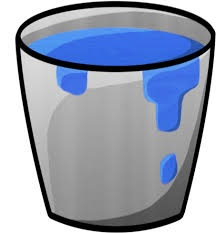
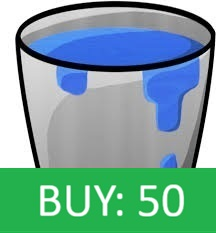
added budgetBar texts

Changed region(s): [[0.0, 0.691, 1.0, 1.0]]

diff --git a/UI/BudgetBar.cpp b/UI/BudgetBar.cpp
@@ -44,15 +44,45 @@ WaterIcon::WaterIcon(Game* r_pGame, point r_point, int r_width, int r_height, st
 	}
 }
 
-
+//omar
 void WaterIcon::draw() const
 {
-	BudgetbarIcon::draw(); // Draw the button
-	for (int i = 0; i < count; i++) { //loop to draw grass
+	BudgetbarIcon::draw(); //draw jpg
+
+	window* pWind = pGame->getWind();
+
+	pWind->SetPen(RED, 1);
+	pWind->SetBrush(RED);
+	pWind->DrawRectangle(RefPoint.x, RefPoint.y + height - 15, RefPoint.x + width, RefPoint.y + height);
+
+	// The Text
+	pWind->SetPen(WHITE, 1);
+	pWind->SetFont(14, BOLD, BY_NAME, "Arial");
+	pWind->DrawString(RefPoint.x + 5, RefPoint.y + height - 18, "Buy: 50");
+
+
+	for (int i = 0; i < count; i++) {
 		if (Grasslist[i] != nullptr) {
 			Grasslist[i]->draw();
 		}
 	}
+}
+
+void ChickIcon::draw() const
+{
+	BudgetbarIcon::draw(); 
+
+	window* pWind = pGame->getWind();
+
+	//Erase
+	pWind->SetPen(RED, 1);
+	pWind->SetBrush(RED);
+	pWind->DrawRectangle(RefPoint.x, RefPoint.y + height - 15, RefPoint.x + width, RefPoint.y + height);
+
+	//Text
+	pWind->SetPen(WHITE, 1);
+	pWind->SetFont(14, BOLD, BY_NAME, "Arial");
+	pWind->DrawString(RefPoint.x + 5, RefPoint.y + height - 18, "Buy: 100");
 }
 
 void ChickIcon::onClick(int x, int y)
@@ -80,7 +110,22 @@ void ChickIcon::onClick(int x, int y)
 	}
 }
 
+void CowIcon::draw() const
+{
+	BudgetbarIcon::draw(); // Draw jpg
 
+	window* pWind = pGame->getWind();
+
+	// Erase
+	pWind->SetPen(RED, 1);
+	pWind->SetBrush(RED);
+	pWind->DrawRectangle(RefPoint.x, RefPoint.y + height - 15, RefPoint.x + width, RefPoint.y + height);
+
+	// Text
+	pWind->SetPen(WHITE, 1);
+	pWind->SetFont(14, BOLD, BY_NAME, "Arial");
+	pWind->DrawString(RefPoint.x + 5, RefPoint.y + height - 18, "Buy: 100");
+}
 
 void CowIcon::onClick(int x, int y)
 {

diff --git a/UI/BudgetBar.h b/UI/BudgetBar.h
@@ -38,6 +38,7 @@ public:
 class ChickIcon : public BudgetbarIcon
 {
 public:
+	void draw() const;
 	Chick** chickList;
 	int count = 0;
 	ChickIcon(Game* r_pGame, point r_point, int r_width, int r_height, string img_path);
@@ -57,6 +58,7 @@ public:
 class CowIcon : public BudgetbarIcon
 {
 public:
+	void draw() const;
 	Cow** CowList;
 	int count = 0;
 	CowIcon(Game* r_pGame, point r_point, int r_width, int r_height, string img_path);